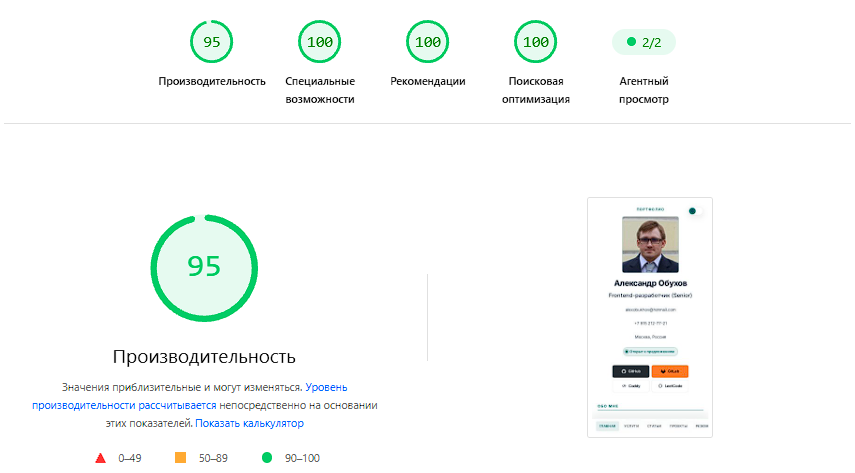
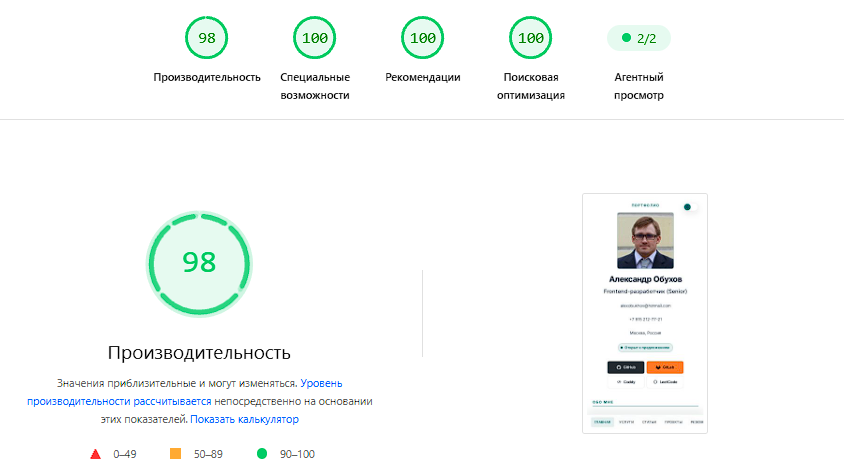
Apply the saved color mode before first paint and resolve article data without a trailing slash so a refresh neither flashes white nor mismatches the aside.

diff --git a/app/plugins/theme.ts b/app/plugins/theme.ts
@@ -1,16 +1,25 @@
-import { THEME_DARK_COLOR, THEME_KEY, THEME_LIGHT_COLOR } from '~/utils/theme'
+import { THEME_DARK_COLOR, THEME_KEY, THEME_LIGHT_COLOR, themeBootScript, themeFromCookie } from '~/utils/theme'
 
 export default defineNuxtPlugin(() => {
   const dark = useThemeDark()
 
+  if (import.meta.server) {
+    const fromCookie = themeFromCookie(useRequestHeaders(['cookie']).cookie)
+
+    if (fromCookie !== null) dark.value = fromCookie
+  }
+
   if (import.meta.client) {
     try {
       const stored = localStorage.getItem(THEME_KEY)
+
       if (stored === 'dark') dark.value = true
+
       if (stored === 'light') dark.value = false
     } catch {
       /* ignore */
     }
+
     if (document.documentElement.classList.contains('dark')) dark.value = true
   }
 
@@ -18,6 +27,11 @@ export default defineNuxtPlugin(() => {
     htmlAttrs: {
       class: computed(() => ({ dark: dark.value })),
     },
+    script: [{
+      key: 'theme-boot',
+      innerHTML: themeBootScript,
+      tagPriority: 'critical',
+    }],
     meta: [
       { name: 'theme-color', content: () => (dark.value ? THEME_DARK_COLOR : THEME_LIGHT_COLOR) },
     ],
@@ -26,14 +40,18 @@ export default defineNuxtPlugin(() => {
   if (!import.meta.client) return
 
   applyTheme(dark.value)
+  document.documentElement.classList.add('theme-settled')
 
   document.addEventListener('change', (event) => {
     const target = event.target
+
     if (!(target instanceof HTMLInputElement) || target.id !== 'theme-toggle') return
+
     applyTheme(target.checked)
   })
 
   const router = useRouter()
+
   router.afterEach(() => {
     nextTick(() => applyTheme(dark.value))
   })

diff --git a/app/utils/theme.ts b/app/utils/theme.ts
@@ -1,3 +1,15 @@
 export const THEME_KEY = 'portfolio-color-mode'
 export const THEME_DARK_COLOR = '#0a192f'
 export const THEME_LIGHT_COLOR = '#ffffff'
+
+export const themeBootScript = `(function(){try{var k=${JSON.stringify(THEME_KEY)};var m=localStorage.getItem(k);if(m!=='dark'&&m!=='light')return;document.documentElement.classList.toggle('dark',m==='dark');document.cookie=k+'='+m+'; Path=/; Max-Age=31536000; SameSite=Lax'}catch(e){}})();`
+
+export const themeFromCookie = (raw: string | undefined | null): boolean | null => {
+  if (!raw) return null
+
+  const match = raw.match(new RegExp(`(?:^|; )${THEME_KEY}=(dark|light)(?:;|$)`))
+
+  if (!match) return null
+
+  return match[1] === 'dark'
+}

diff --git a/app/composables/useArticle.ts b/app/composables/useArticle.ts
@@ -1,12 +1,15 @@
 import { articlePageForPath } from '~/entities/article'
 
+const articlePath = (path: string) => path.replace(/\/+$/, '') || '/'
+
 export const useArticle = () => {
   const route = useRoute()
 
   return useAsyncData(
-    () => 'article-' + route.path,
+    () => 'article-' + articlePath(route.path),
     () => {
-      const path = route.path
+      const path = articlePath(route.path)
+
       if (articlePageForPath(path)?.hub) return Promise.resolve(null)
 
       return queryCollection('articles').path(path).first()

diff --git a/app/composables/useTheme.ts b/app/composables/useTheme.ts
@@ -11,11 +11,13 @@ export function applyTheme(on: boolean) {
 
   document.documentElement.classList.toggle('dark', on)
 
+  const mode = on ? 'dark' : 'light'
   try {
-    localStorage.setItem(THEME_KEY, on ? 'dark' : 'light')
+    localStorage.setItem(THEME_KEY, mode)
   } catch {
     /* ignore */
   }
+  document.cookie = `${THEME_KEY}=${mode}; Path=/; Max-Age=31536000; SameSite=Lax`
 
   const input = document.getElementById('theme-toggle')
 

diff --git a/app/widgets/article-page/ui/ArticlePage.vue b/app/widgets/article-page/ui/ArticlePage.vue
@@ -15,7 +15,7 @@ if (!page.value) {
 usePageSeo({
   title: () => page.value?.title,
   description: () => page.value?.description || home.value?.seoDescription,
-  path: () => route.path,
+  path: () => route.path.replace(/\/+$/, '') || '/',
   type: 'article',
   image: () => page.value?.cover ? siteUrl(page.value.cover) : home.value?.ogImage,
   author: () => home.value?.name,

diff --git a/app/assets/css/theme.css b/app/assets/css/theme.css
@@ -95,6 +95,10 @@ body {
   transition: background 0.25s var(--ease), color 0.25s var(--ease);
 }
 
+html:not(.theme-settled) body {
+  transition: none;
+}
+
 a {
   color: var(--accent);
 }

diff --git a/content/home.md b/content/home.md
@@ -6,7 +6,7 @@ status: Открыт к предложениям
 eyebrow: Портфолио
 lead: Фокус на Vue 3 / Nuxt.
 experienceYears: 7+ лет
-updated: 28 сентября 2026
+updated: 1 октября 2026
 seoTitle: Александр Обухов — Frontend-разработчик (Senior)
 seoDescription: "Frontend-разработчик (Senior) и Team Lead фронтенда, 7+ лет: Vue 3, Nuxt, TypeScript. Команда 5–7 человек, найм, спринты, code review. E-commerce, аналитика, edtech. Удалёнка, гибрид или офис в Москве."
 ogImage: https://arnoandaivengo.ru/images/alex/alex-og.jpg
